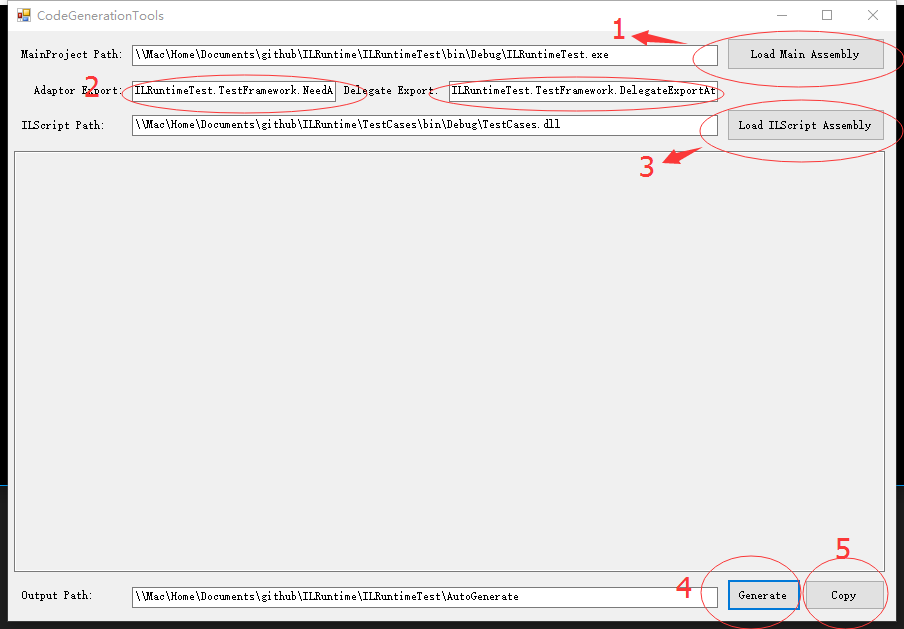
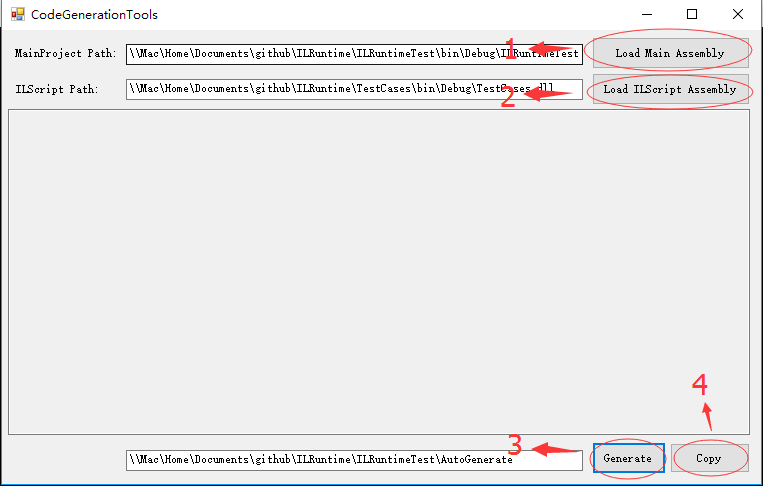
move the two attr to the ILRuntime project modify the tools doc

Changed region(s): [[0.0, 0.0, 1.0, 1.0], [0.9043, 0.7716, 0.9345, 0.8025]]

diff --git a/CodeGenerationTools/MainForm.Designer.cs b/CodeGenerationTools/MainForm.Designer.cs
@@ -41,16 +41,12 @@
             this.label1 = new System.Windows.Forms.Label();
             this.label2 = new System.Windows.Forms.Label();
             this.label3 = new System.Windows.Forms.Label();
-            this.label4 = new System.Windows.Forms.Label();
-            this.label5 = new System.Windows.Forms.Label();
-            this.adaptorTxt = new System.Windows.Forms.TextBox();
-            this.delegateTxt = new System.Windows.Forms.TextBox();
             this.SuspendLayout();
             // 
             // LoadButton
             // 
             this.LoadButton.Anchor = ((System.Windows.Forms.AnchorStyles)((System.Windows.Forms.AnchorStyles.Bottom | System.Windows.Forms.AnchorStyles.Right)));
-            this.LoadButton.Location = new System.Drawing.Point(719, 548);
+            this.LoadButton.Location = new System.Drawing.Point(590, 412);
             this.LoadButton.Margin = new System.Windows.Forms.Padding(2);
             this.LoadButton.Name = "LoadButton";
             this.LoadButton.Size = new System.Drawing.Size(74, 32);
@@ -68,18 +64,18 @@
             this.outputText.Anchor = ((System.Windows.Forms.AnchorStyles)((((System.Windows.Forms.AnchorStyles.Top | System.Windows.Forms.AnchorStyles.Bottom) 
             | System.Windows.Forms.AnchorStyles.Left) 
             | System.Windows.Forms.AnchorStyles.Right)));
-            this.outputText.Location = new System.Drawing.Point(6, 120);
+            this.outputText.Location = new System.Drawing.Point(6, 79);
             this.outputText.Margin = new System.Windows.Forms.Padding(2);
             this.outputText.Multiline = true;
             this.outputText.Name = "outputText";
             this.outputText.ReadOnly = true;
-            this.outputText.Size = new System.Drawing.Size(871, 421);
+            this.outputText.Size = new System.Drawing.Size(742, 326);
             this.outputText.TabIndex = 2;
             // 
             // CopyButton
             // 
             this.CopyButton.Anchor = ((System.Windows.Forms.AnchorStyles)((System.Windows.Forms.AnchorStyles.Bottom | System.Windows.Forms.AnchorStyles.Right)));
-            this.CopyButton.Location = new System.Drawing.Point(797, 549);
+            this.CopyButton.Location = new System.Drawing.Point(668, 413);
             this.CopyButton.Margin = new System.Windows.Forms.Padding(2);
             this.CopyButton.Name = "CopyButton";
             this.CopyButton.Size = new System.Drawing.Size(80, 30);
@@ -92,10 +88,10 @@
             // 
             this.outputPath.Anchor = ((System.Windows.Forms.AnchorStyles)(((System.Windows.Forms.AnchorStyles.Bottom | System.Windows.Forms.AnchorStyles.Left) 
             | System.Windows.Forms.AnchorStyles.Right)));
-            this.outputPath.Location = new System.Drawing.Point(124, 556);
+            this.outputPath.Location = new System.Drawing.Point(124, 420);
             this.outputPath.Margin = new System.Windows.Forms.Padding(2);
             this.outputPath.Name = "outputPath";
-            this.outputPath.Size = new System.Drawing.Size(586, 21);
+            this.outputPath.Size = new System.Drawing.Size(457, 21);
             this.outputPath.TabIndex = 4;
             // 
             // sourcePath1
@@ -105,23 +101,23 @@
             this.sourcePath1.Location = new System.Drawing.Point(124, 14);
             this.sourcePath1.Margin = new System.Windows.Forms.Padding(2);
             this.sourcePath1.Name = "sourcePath1";
-            this.sourcePath1.Size = new System.Drawing.Size(586, 21);
+            this.sourcePath1.Size = new System.Drawing.Size(457, 21);
             this.sourcePath1.TabIndex = 5;
             // 
             // sourcePath2
             // 
             this.sourcePath2.Anchor = ((System.Windows.Forms.AnchorStyles)(((System.Windows.Forms.AnchorStyles.Top | System.Windows.Forms.AnchorStyles.Left) 
             | System.Windows.Forms.AnchorStyles.Right)));
-            this.sourcePath2.Location = new System.Drawing.Point(124, 84);
+            this.sourcePath2.Location = new System.Drawing.Point(124, 49);
             this.sourcePath2.Margin = new System.Windows.Forms.Padding(2);
             this.sourcePath2.Name = "sourcePath2";
-            this.sourcePath2.Size = new System.Drawing.Size(586, 21);
+            this.sourcePath2.Size = new System.Drawing.Size(457, 21);
             this.sourcePath2.TabIndex = 6;
             // 
             // AddButton2
             // 
             this.AddButton2.Anchor = ((System.Windows.Forms.AnchorStyles)((System.Windows.Forms.AnchorStyles.Top | System.Windows.Forms.AnchorStyles.Right)));
-            this.AddButton2.Location = new System.Drawing.Point(719, 78);
+            this.AddButton2.Location = new System.Drawing.Point(590, 43);
             this.AddButton2.Margin = new System.Windows.Forms.Padding(2);
             this.AddButton2.Name = "AddButton2";
             this.AddButton2.Size = new System.Drawing.Size(158, 32);
@@ -133,7 +129,7 @@
             // AddButton1
             // 
             this.AddButton1.Anchor = ((System.Windows.Forms.AnchorStyles)((System.Windows.Forms.AnchorStyles.Top | System.Windows.Forms.AnchorStyles.Right)));
-            this.AddButton1.Location = new System.Drawing.Point(719, 7);
+            this.AddButton1.Location = new System.Drawing.Point(590, 7);
             this.AddButton1.Margin = new System.Windows.Forms.Padding(2);
             this.AddButton1.Name = "AddButton1";
             this.AddButton1.Size = new System.Drawing.Size(158, 32);
@@ -154,7 +150,7 @@
             // label2
             // 
             this.label2.AutoSize = true;
-            this.label2.Location = new System.Drawing.Point(12, 88);
+            this.label2.Location = new System.Drawing.Point(12, 53);
             this.label2.Name = "label2";
             this.label2.Size = new System.Drawing.Size(89, 12);
             this.label2.TabIndex = 10;
@@ -169,47 +165,11 @@
             this.label3.TabIndex = 11;
             this.label3.Text = "Output Path:";
             // 
-            // label4
-            // 
-            this.label4.AutoSize = true;
-            this.label4.Location = new System.Drawing.Point(24, 53);
-            this.label4.Name = "label4";
-            this.label4.Size = new System.Drawing.Size(95, 12);
-            this.label4.TabIndex = 12;
-            this.label4.Text = "Adaptor Export:";
-            // 
-            // label5
-            // 
-            this.label5.AutoSize = true;
-            this.label5.Location = new System.Drawing.Point(334, 53);
-            this.label5.Name = "label5";
-            this.label5.Size = new System.Drawing.Size(101, 12);
-            this.label5.TabIndex = 13;
-            this.label5.Text = "Delegate Export:";
-            // 
-            // adaptorTxt
-            // 
-            this.adaptorTxt.Location = new System.Drawing.Point(124, 50);
-            this.adaptorTxt.Name = "adaptorTxt";
-            this.adaptorTxt.Size = new System.Drawing.Size(204, 21);
-            this.adaptorTxt.TabIndex = 14;
-            // 
-            // delegateTxt
-            // 
-            this.delegateTxt.Location = new System.Drawing.Point(441, 50);
-            this.delegateTxt.Name = "delegateTxt";
-            this.delegateTxt.Size = new System.Drawing.Size(269, 21);
-            this.delegateTxt.TabIndex = 15;
-            // 
             // MainForm
             // 
             this.AutoScaleDimensions = new System.Drawing.SizeF(6F, 12F);
             this.AutoScaleMode = System.Windows.Forms.AutoScaleMode.Font;
-            this.ClientSize = new System.Drawing.Size(888, 590);
-            this.Controls.Add(this.delegateTxt);
-            this.Controls.Add(this.adaptorTxt);
-            this.Controls.Add(this.label5);
-            this.Controls.Add(this.label4);
+            this.ClientSize = new System.Drawing.Size(759, 454);
             this.Controls.Add(this.label3);
             this.Controls.Add(this.label2);
             this.Controls.Add(this.label1);
@@ -246,10 +206,6 @@
         private System.Windows.Forms.Label label1;
         private System.Windows.Forms.Label label2;
         private System.Windows.Forms.Label label3;
-        private System.Windows.Forms.Label label4;
-        private System.Windows.Forms.Label label5;
-        private System.Windows.Forms.TextBox adaptorTxt;
-        private System.Windows.Forms.TextBox delegateTxt;
     }
 }
 

diff --git a/CodeGenerationTools/MainForm.cs b/CodeGenerationTools/MainForm.cs
@@ -4,8 +4,10 @@ using System.IO;
 using System.Linq;
 using System.Reflection;
 using System.Windows.Forms;
+using ILRuntime.Other;
 using Mono.Cecil;
 using Mono.Cecil.Cil;
+
 
 namespace CodeGenerationTools
 {
@@ -14,6 +16,7 @@ namespace CodeGenerationTools
     {
         #region Fields
         private string _outputPath;
+
         private string _helperTmpd;
         private string _adaptorTmpd;
         private string _adaptorInterfaceTmpd;
@@ -34,11 +37,11 @@ namespace CodeGenerationTools
         private readonly Dictionary<string, object> _delegateRegDic = new Dictionary<string, object>();
 
 
-        private string _adaptorAttrName = "ILRuntimeTest.TestFramework.NeedAdaptorAttribute";
-        private string _delegateAttrName = "ILRuntimeTest.TestFramework.DelegateExportAttribute";
+        //private string _adaptorAttrName = "ILRuntimeTest.TestFramework.NeedAdaptorAttribute";
+        //private string _delegateAttrName = "ILRuntimeTest.TestFramework.DelegateExportAttribute";
 
-        private Type _adptorAttr;
-        private Type _delegateAttr;
+        //private Type _adptorAttr ;
+        //private Type _delegateAttr;
 
         #endregion
 
@@ -58,10 +61,10 @@ namespace CodeGenerationTools
             outputPath.Text = Properties.Settings.Default["out_path"] as string;
             sourcePath1.Text = Properties.Settings.Default["assembly_path"] as string;
             sourcePath2.Text = Properties.Settings.Default["assembly_path1"] as string;
-            adaptorTxt.Text = Properties.Settings.Default["adaptor_export_attr"] as string;
-            if (adaptorTxt.Text == "") adaptorTxt.Text = _adaptorAttrName;
-            delegateTxt.Text = Properties.Settings.Default["delegate_export_attr"] as string;
-            if (delegateTxt.Text == "") delegateTxt.Text = _delegateAttrName;
+            //adaptorTxt.Text = Properties.Settings.Default["adaptor_export_attr"] as string;
+            //if (adaptorTxt.Text == "") adaptorTxt.Text = _adaptorAttrName;
+            //delegateTxt.Text = Properties.Settings.Default["delegate_export_attr"] as string;
+            //if (delegateTxt.Text == "") delegateTxt.Text = _delegateAttrName;
             outputText.Text = "";
 
             _adaptorSet.Clear();
@@ -76,8 +79,8 @@ namespace CodeGenerationTools
             Properties.Settings.Default["out_path"] = outputPath.Text;
             Properties.Settings.Default["assembly_path"] = sourcePath1.Text;
             Properties.Settings.Default["assembly_path1"] = sourcePath2.Text;
-            Properties.Settings.Default["adaptor_export_attr"] = adaptorTxt.Text;
-            Properties.Settings.Default["delegate_export_attr"] = delegateTxt.Text;
+            //Properties.Settings.Default["adaptor_export_attr"] = adaptorTxt.Text;
+            //Properties.Settings.Default["delegate_export_attr"] = delegateTxt.Text;
 
             Properties.Settings.Default.Save();
         }
@@ -95,26 +98,15 @@ namespace CodeGenerationTools
                 sourcePath1.Text = targetPath = OD.FileName;
             }
 
-            _adaptorAttrName = adaptorTxt.Text;
-            _delegateAttrName = delegateTxt.Text;
-
-            if (string.IsNullOrEmpty(_adaptorAttrName) || string.IsNullOrEmpty(_delegateAttrName))
-            {
-                Print("[Error] Adaptor Export Attribute or DelegateAttribute is Empty");
-                return;
-            }
-
             var assembly = Assembly.LoadFrom(targetPath);
             if (assembly == null) return;
             //types
             var types = assembly.GetTypes();
-            _adptorAttr = assembly.GetType(_adaptorAttrName);
-            _delegateAttr = assembly.GetType(_delegateAttrName);
 
             foreach (var type in types)
             {
                 //load ad
-                var attr = type.GetCustomAttribute(_adptorAttr, false);
+                var attr = type.GetCustomAttribute(typeof(NeedAdaptorAttribute), false);
                 if (attr != null)
                 {
                     Print("[adaptor]" + type.FullName);
@@ -123,7 +115,7 @@ namespace CodeGenerationTools
                 }
 
                 //load delegate
-                var attr1 = type.GetCustomAttribute(_delegateAttr, false);
+                var attr1 = type.GetCustomAttribute(typeof(DelegateExportAttribute), false);
                 if (attr1 != null)
                 {
                     Print("[delegate convertor]" + type.FullName);
@@ -180,6 +172,12 @@ namespace CodeGenerationTools
                 return;
             }
 
+            Print("===============================Clear Old Files================================");
+            var files = Directory.GetFiles(_outputPath);
+            foreach (var file in files)
+            {
+                File.Delete(file);
+            }
 
             Print("[=============================Generate Begin==============================]");
 
@@ -401,7 +399,7 @@ namespace CodeGenerationTools
                 return;
 
             Print($"================begin create adaptor:{type.Name}=======================");
-            
+
             var adaptorName = type.Name + "Adaptor";
             var classbody = _adaptorTmpd;
             var methodsbody = "";

diff --git a/CodeGenerationTools/ReflectionExt.cs b/CodeGenerationTools/ReflectionExt.cs
@@ -10,12 +10,12 @@ namespace CodeGenerationTools
     public static class ReflectionExt
     {
         public static readonly List<AccessModifier> AccessModifiers = new List<AccessModifier>
-    {
-        AccessModifier.Private,
-        AccessModifier.Protected,
-        AccessModifier.Internal,
-        AccessModifier.Public
-    };
+        {
+            AccessModifier.Private,
+            AccessModifier.Protected,
+            AccessModifier.Internal,
+            AccessModifier.Public
+        };
 
         public static AccessModifier Accessmodifier(this PropertyInfo propertyInfo)
         {

diff --git a/ILRuntimeTest/AutoGenerate/helper.cs b/ILRuntimeTest/AutoGenerate/helper.cs
@@ -16,7 +16,6 @@ namespace ILRuntimeTest.TestFramework
 			// adaptor register 
                         
 			app.RegisterCrossBindingAdaptor(new ClassInheritanceTestAdaptor());            
-			app.RegisterCrossBindingAdaptor(new InterfaceTestAdaptor());            
 			app.RegisterCrossBindingAdaptor(new TestClass2Adaptor());            
 			app.RegisterCrossBindingAdaptor(new TestClass3Adaptor());   
 

diff --git a/ILRuntime/Other/DelegateExportAttribute.cs b/ILRuntime/Other/DelegateExportAttribute.cs
@@ -1,0 +1,9 @@
+namespace ILRuntime.Other
+{
+    /// <summary>
+    /// A Delegate Custom Attr, It tells the CodeGenerationTools : this delegate need to register a delegate convertor,when generate ILRuntimeHelper.cs file.
+    /// </summary>
+    public class DelegateExportAttribute : System.Attribute
+    {
+    }
+}

diff --git a/ILRuntime/Other/NeedAdaptorAttribute.cs b/ILRuntime/Other/NeedAdaptorAttribute.cs
@@ -1,0 +1,10 @@
+namespace ILRuntime.Other
+{
+    /// <summary>
+    /// A Class Custom Attr, It tells the CodeGenerationTools :there is a class need to generate an adaptor for ILScript
+    /// </summary>
+    public class NeedAdaptorAttribute : System.Attribute
+    {
+
+    }
+}

diff --git a/ILRuntimeTest/TestFramework/ClassInheritanceTest.cs b/ILRuntimeTest/TestFramework/ClassInheritanceTest.cs
@@ -4,6 +4,7 @@ using System.Linq;
 using System.Text;
 using ILRuntime.CLR.TypeSystem;
 using ILRuntime.CLR.Method;
+using ILRuntime.Other;
 using ILRuntime.Runtime.Enviorment;
 using ILRuntime.Runtime.Intepreter;
 

diff --git a/ILRuntimeTest/TestFramework/TestClass2.cs b/ILRuntimeTest/TestFramework/TestClass2.cs
@@ -3,6 +3,7 @@ using System.Collections.Generic;
 using System.Data.SqlTypes;
 using System.Linq;
 using System.Text;
+using ILRuntime.Other;
 
 namespace ILRuntimeTest.TestFramework
 {

diff --git a/ILRuntimeTest/TestFramework/DelegateTest.cs b/ILRuntimeTest/TestFramework/DelegateTest.cs
@@ -2,6 +2,7 @@
 using System.Collections.Generic;
 using System.Linq;
 using System.Text;
+using ILRuntime.Other;
 
 namespace ILRuntimeTest.TestFramework
 {

diff --git a/ILRuntimeTest/TestFramework/TestClass3.cs b/ILRuntimeTest/TestFramework/TestClass3.cs
@@ -2,6 +2,7 @@
 using System.Collections.Generic;
 using System.Linq;
 using System.Text;
+using ILRuntime.Other;
 
 namespace ILRuntimeTest.TestFramework
 {

diff --git a/CodeGenerationTools/ReadMe.md b/CodeGenerationTools/ReadMe.md
@@ -11,13 +11,25 @@ This tool is used to generate some necessary code for ILRuntime.AppDomain, which
 
 **How to Use**
 ============
+
+***Prepare***
+
+1.In your [MainProject],Mark the class you need inherite in you [ILScript] with [NeedAdaptor] attribute.
+
+![picture1](./pic_3.png)
+
+2.In your [MainProject],Mark the delegate you need to use in you [ILScript] with [DelegateExport] attribute.
+
+![picture1](./pic_4.png)
+
+***RunTools***
+
 ![picture1](./pic_1.png)
 
 1. Click "Load Main Assembly" button to add the [Main Project] path to the tool;
-2. Set "Adaptor Export" and "Delegate Export" 's values. the value is a full name of a custom [System.Attribute] class to mark the class or delegate which is need to export.
-3. Click "Load ILScript Assembly" button to add the [ILScript Project] path to the tool;
-4. Click the "Generate" button to generate code.
-5. Click the "Copy" button to copy the code to your [Main Project]'s folder named "AutoGenerate" 
+2. Click "Load ILScript Assembly" button to add the [ILScript Project] path to the tool;
+3. Click the "Generate" button to generate code.
+4. Click the "Copy" button to copy the code to your [Main Project]'s folder named "AutoGenerate" 
 
 **Example**
 ==============
@@ -25,6 +37,4 @@ If you still not sure about how to use this tool,you can take a look the [ILRunt
 
 ![picture1](./pic_2.png)
 
-![picture1](./pic_3.png)
 
-![picture1](./pic_4.png)
